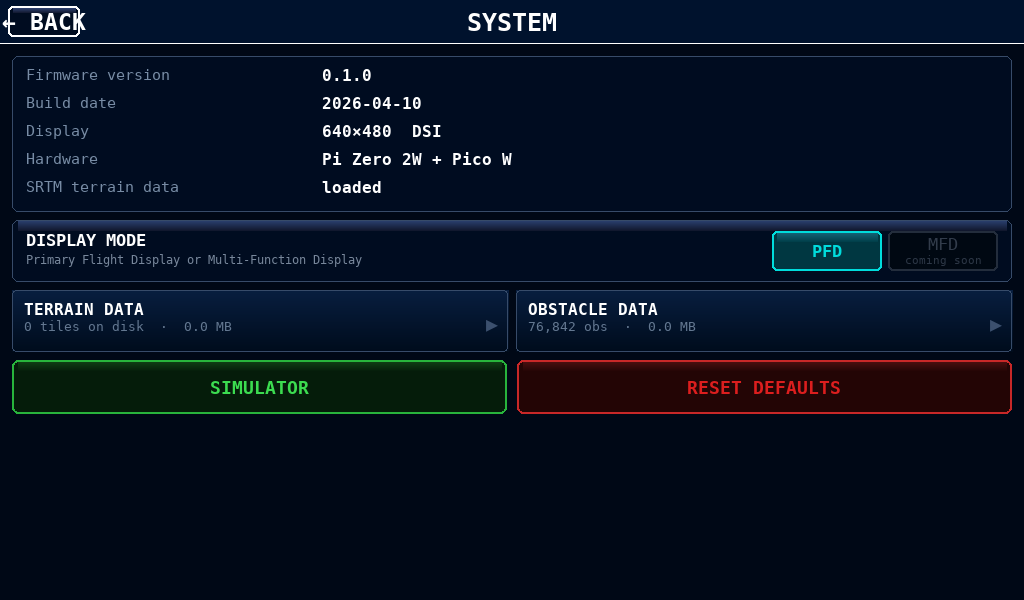
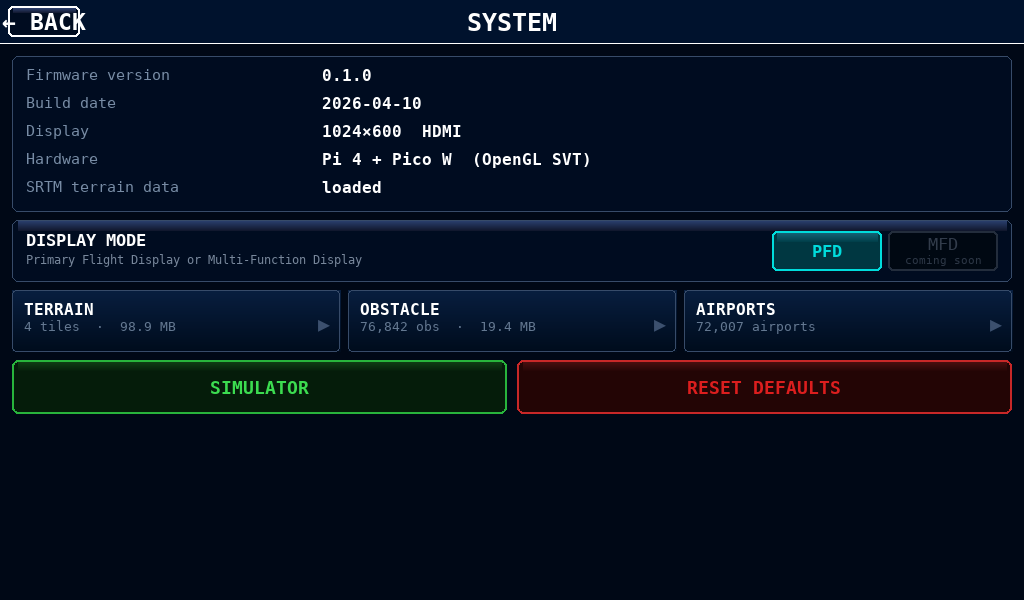
Fix Pi 4 system info text + extend offline preview gen to setup screens
Pi 4 system screen was showing "Pi Zero 2W + Pico W" and "640x480 DSI"
because the draw_system_setup hardware/display lines were copied
verbatim when the codebases split.  Now both versions read
DISPLAY_W/DISPLAY_H from config and identify the correct hardware
(Pi 4 + Pico W (OpenGL SVT) / Pi Zero 2W + Pico W).

render_pfd_offline.py now also generates the setup screens (system,
flight profile, display, AHRS, connectivity, main, airport_data)
since those don't need GL.  Setup PNGs land alongside the rest in
pi4/previews/ so the doc image references stay current.

Pi 4 setup_system PNG regenerated showing the new 3-tile data-row
layout (TERRAIN | OBSTACLE | AIRPORTS) at 1024x600.

https://claude.ai/code/session_018sBLgJ7ZVU7xYH4qxt6x56

diff --git a/pi4/render_pfd_offline.py b/pi4/render_pfd_offline.py
@@ -167,6 +167,34 @@ def main():
         pygame.image.save(surf, outpath)
         print(f"  → {os.path.basename(outpath)}")
 
+    # ── Setup screens (no GL needed) ─────────────────────────────────────────
+    # Move output dir up one level so setup PNGs go alongside the existing
+    # preview_setup_*.png files in pi4/previews/, not into the pfd_gl subdir.
+    setup_outdir = os.path.dirname(args.outdir) if args.outdir.endswith("pfd_gl") \
+                                                  else args.outdir
+
+    # Seed plausible non-empty data so the setup tiles show realistic stats
+    pfd.disp["od"]["records"] = 76842
+    pfd.disp["od"]["used_mb"] = 19.4
+    pfd.disp["ad"]["records"] = 72007
+    pfd.disp["ad"]["used_mb"] = 12.3
+    pfd.disp["ad"]["age_days"] = 5
+
+    for screen_mode, fname in [
+        ("setup",               "preview_setup_main.png"),
+        ("flight_profile",      "preview_setup_flight_profile.png"),
+        ("display_setup",       "preview_setup_display.png"),
+        ("ahrs_setup",          "preview_setup_ahrs.png"),
+        ("connectivity_setup",  "preview_setup_connectivity.png"),
+        ("system_setup",        "preview_setup_system.png"),
+        ("airport_data",        "preview_airport_loaded.png"),
+    ]:
+        pfd.disp["mode"] = screen_mode
+        pfd.render(surf, demo_mode=False, connected=True, data_stale=False)
+        outpath = os.path.join(setup_outdir, fname)
+        pygame.image.save(surf, outpath)
+        print(f"  → {os.path.basename(outpath)}")
+
     print("\nDone.")
 
 

diff --git a/pi4/pfd.py b/pi4/pfd.py
@@ -3032,8 +3032,8 @@ def draw_system_setup(surf):
     lines = [
         ("Firmware version",  _SYS_VERSION),
         ("Build date",        _SYS_BUILD),
-        ("Display",           "640\u00d7480  DSI"),
-        ("Hardware",          "Pi Zero 2W + Pico W"),
+        ("Display",           f"{DISPLAY_W}\u00d7{DISPLAY_H}  HDMI"),
+        ("Hardware",          "Pi 4 + Pico W  (OpenGL SVT)"),
         ("SRTM terrain data", "loaded" if os.path.isdir(SRTM_DIR) else "not found"),
     ]
     pygame.draw.rect(surf, (0,12,32), (bx, _SYS_INFO_Y, bw, _SYS_IH), border_radius=6)

diff --git a/pi_zero/pfd.py b/pi_zero/pfd.py
@@ -2912,7 +2912,7 @@ def draw_system_setup(surf):
     lines = [
         ("Firmware version",  _SYS_VERSION),
         ("Build date",        _SYS_BUILD),
-        ("Display",           "640\u00d7480  DSI"),
+        ("Display",           f"{DISPLAY_W}\u00d7{DISPLAY_H}  DPI"),
         ("Hardware",          "Pi Zero 2W + Pico W"),
         ("SRTM terrain data", "loaded" if os.path.isdir(SRTM_DIR) else "not found"),
     ]
